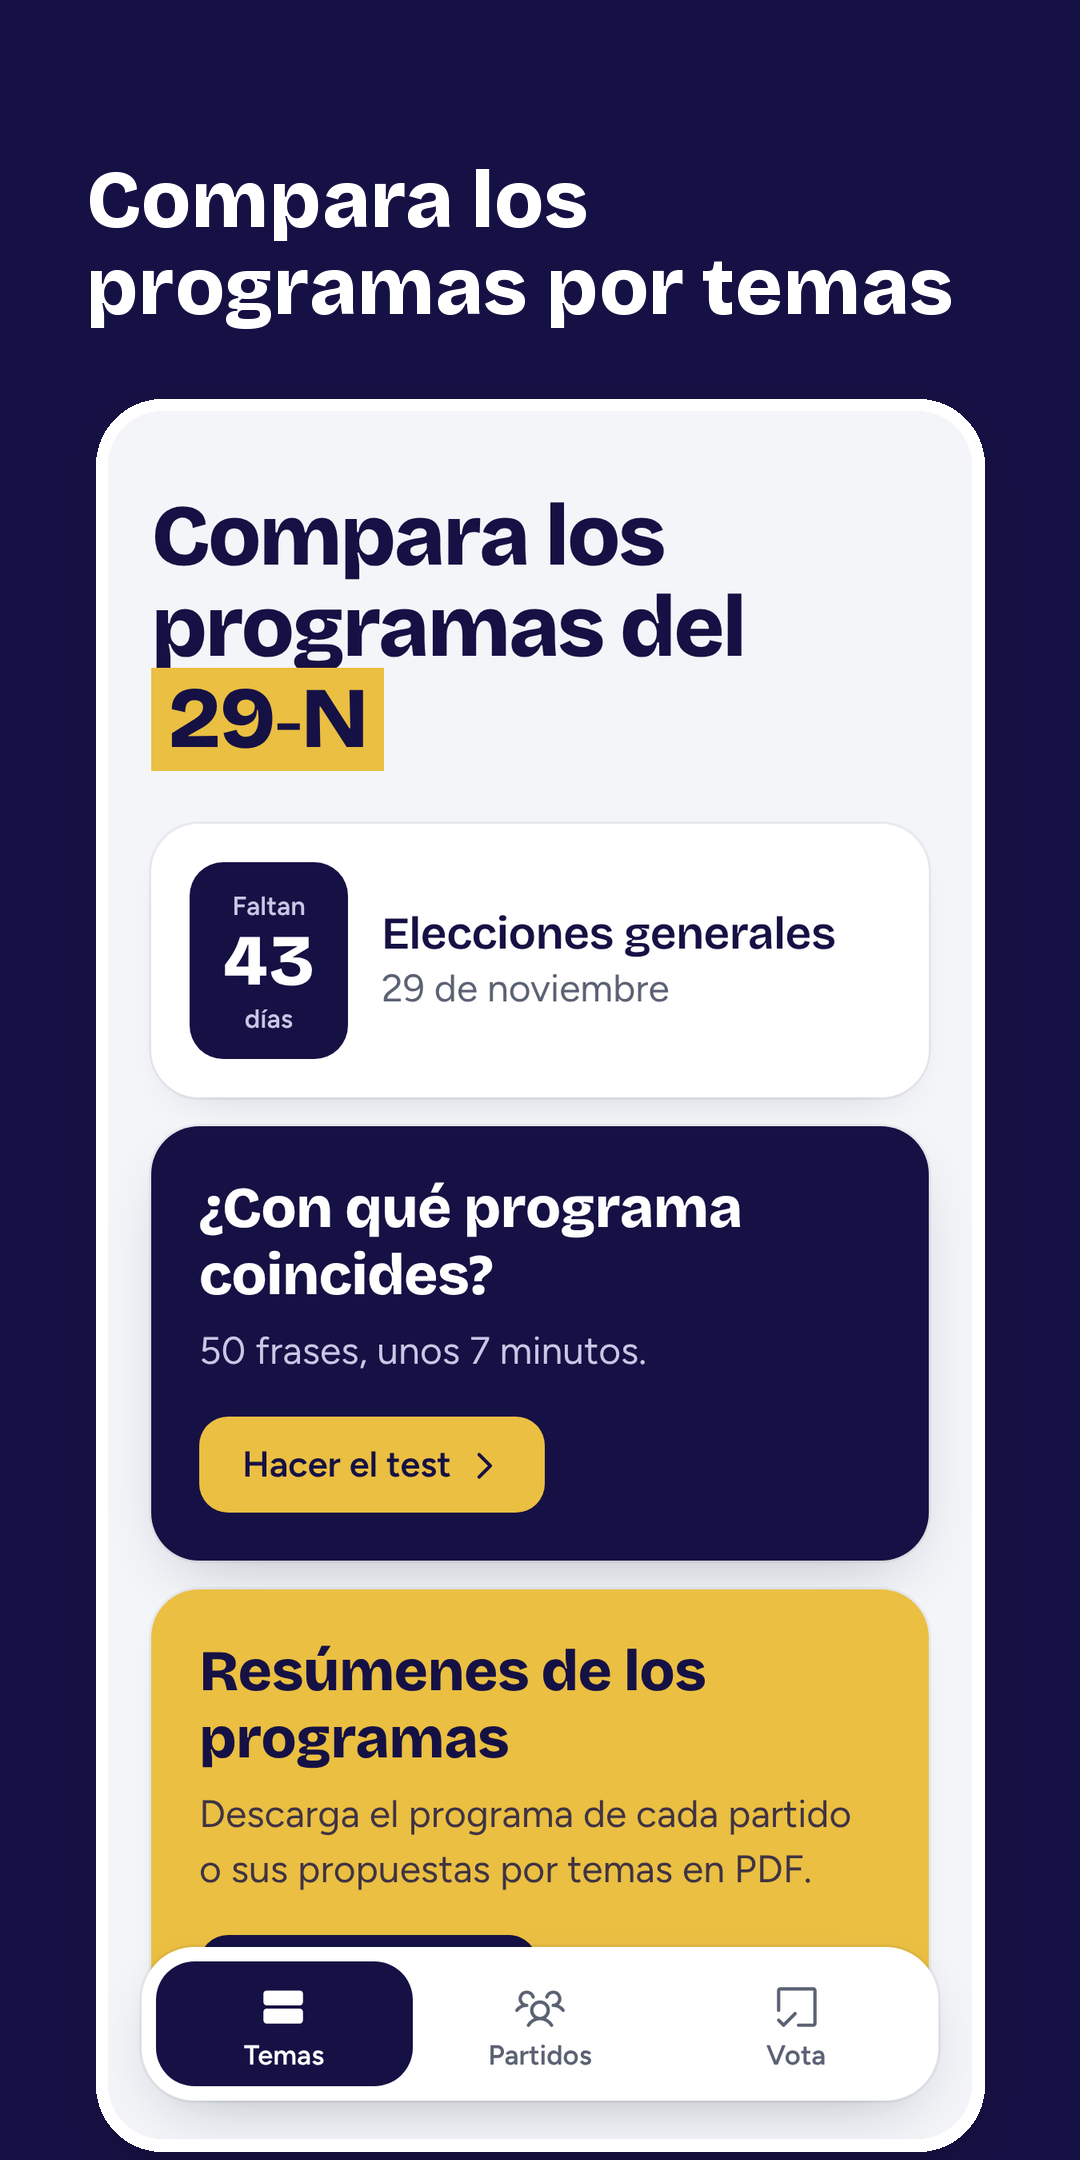
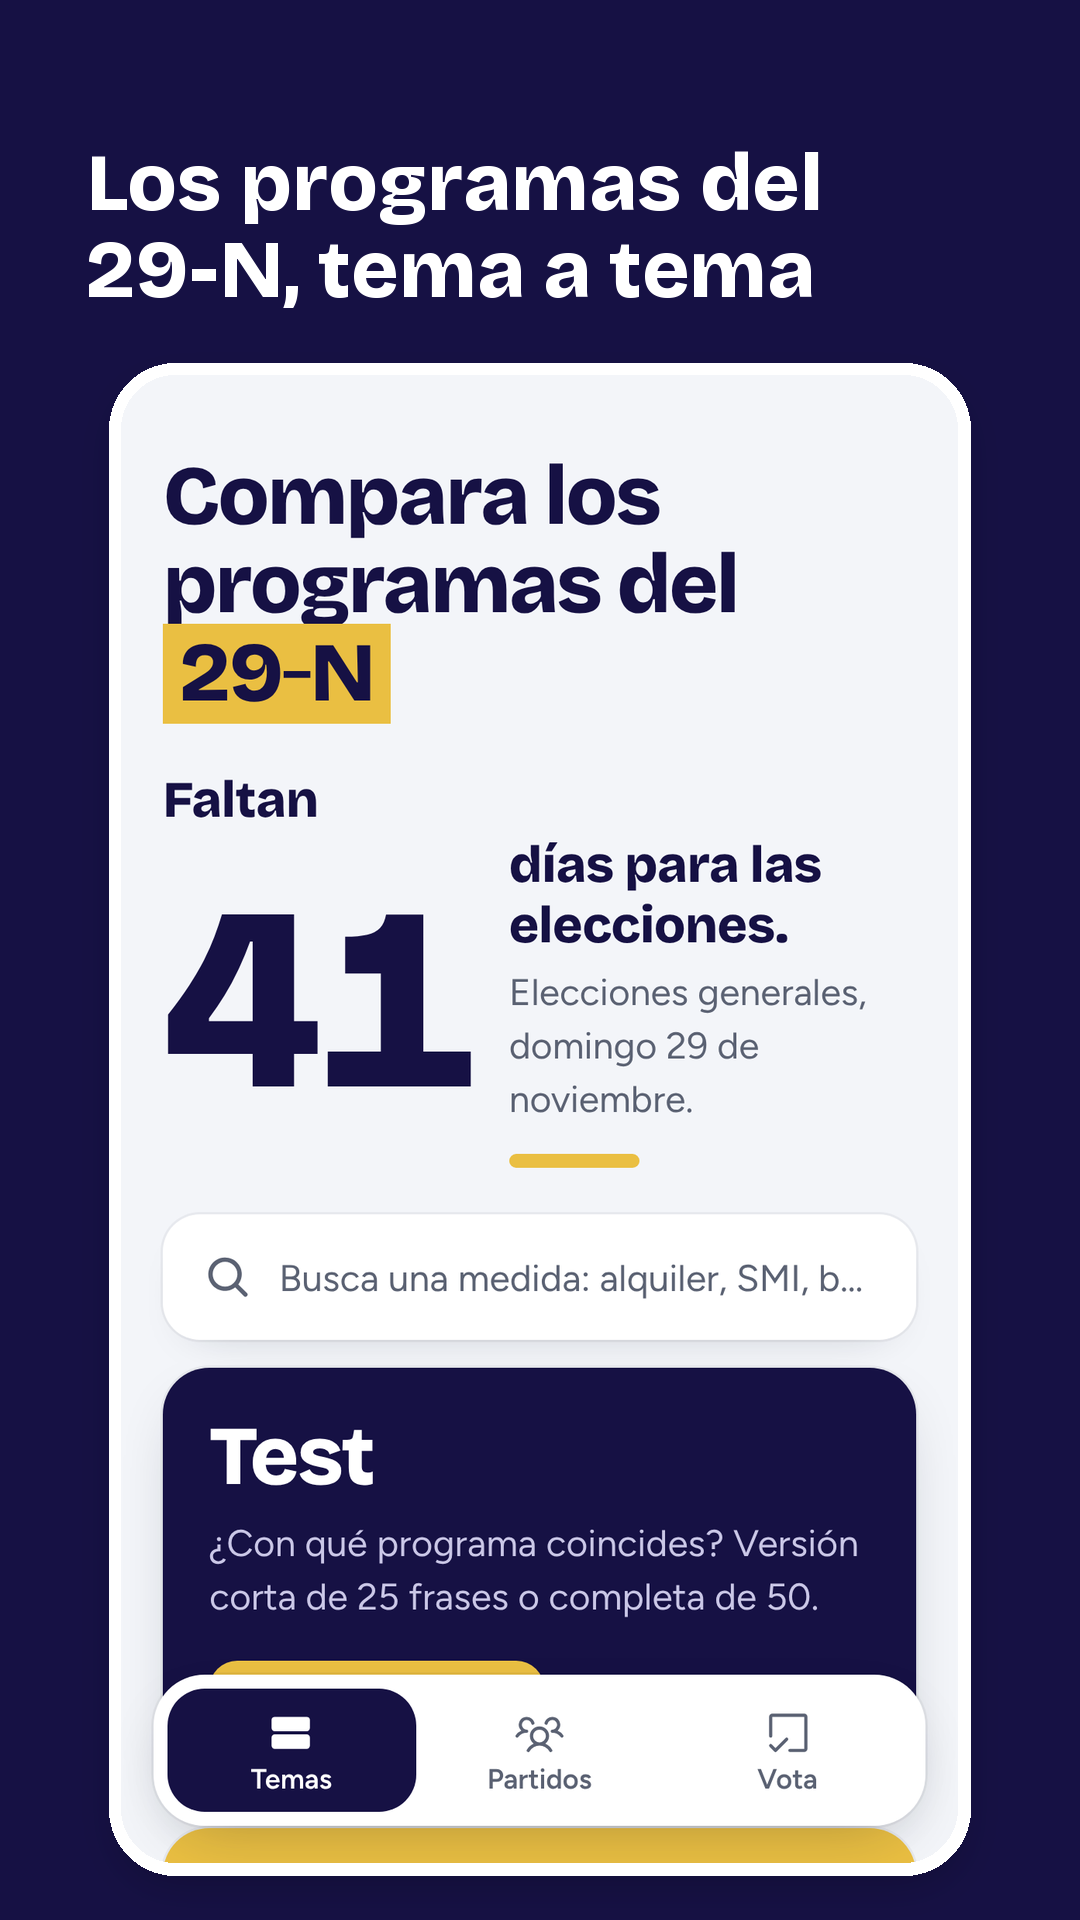
Test revisado y privacidad

diff --git a/public/privacidad.html b/public/privacidad.html
@@ -12,7 +12,7 @@
 </head>
 <body>
 <h1>Política de privacidad de «TuVoto»</h1>
-<p class="meta">Última actualización: 18 de octubre de 2026</p>
+<p class="meta">Última actualización: 19 de octubre de 2026</p>
 
 <h2>Responsable</h2>
 <p>«TuVoto» es un proyecto personal e independiente, sin relación con ningún partido político ni organismo público. Contacto: <a href="mailto:tuvotoapp@gmail.com">tuvotoapp@gmail.com</a>.</p>
@@ -25,7 +25,6 @@
 <ul>
   <li><b>La web del proyecto, en GitHub Pages</b> (GitHub, Inc.): para descargar los programas electorales en PDF y la lista de titulares de noticias. Más información en la <a href="https://docs.github.com/es/site-policy/privacy-policies/github-general-privacy-statement">declaración de privacidad de GitHub</a>.</li>
   <li><b>Medios de comunicación</b>: los titulares enlazan a la web de cada medio, y las imágenes en miniatura de las noticias se cargan desde sus servidores. Si la lista de titulares no está disponible, la app del móvil puede leerla directamente de los canales RSS públicos de esos medios.</li>
-  <li><b>Expo</b> (650 Industries, Inc.): para recibir actualizaciones del contenido, por ejemplo cuando se añade un programa nuevo. El dispositivo envía datos técnicos necesarios para servir la actualización, como la plataforma y la versión de la app. Más información en la <a href="https://expo.dev/privacy">política de privacidad de Expo</a>.</li>
   <li><b>GoatCounter</b> (solo en la web): un contador de visitas sin cookies que no identifica a nadie. Registra qué página se ha visto, desde qué web se ha llegado (por ejemplo, Instagram), el tipo de navegador y dispositivo, el idioma y el país aproximado. No guarda la dirección IP ni permite seguir a una persona entre visitas. Sirve solo para saber cuánta gente usa la web. Más información en la <a href="https://www.goatcounter.com/help/privacy">política de privacidad de GoatCounter</a>.</li>
   <li><b>Google Fonts</b>: la vista previa de los PDF carga las tipografías desde los servidores de Google.</li>
 </ul>
